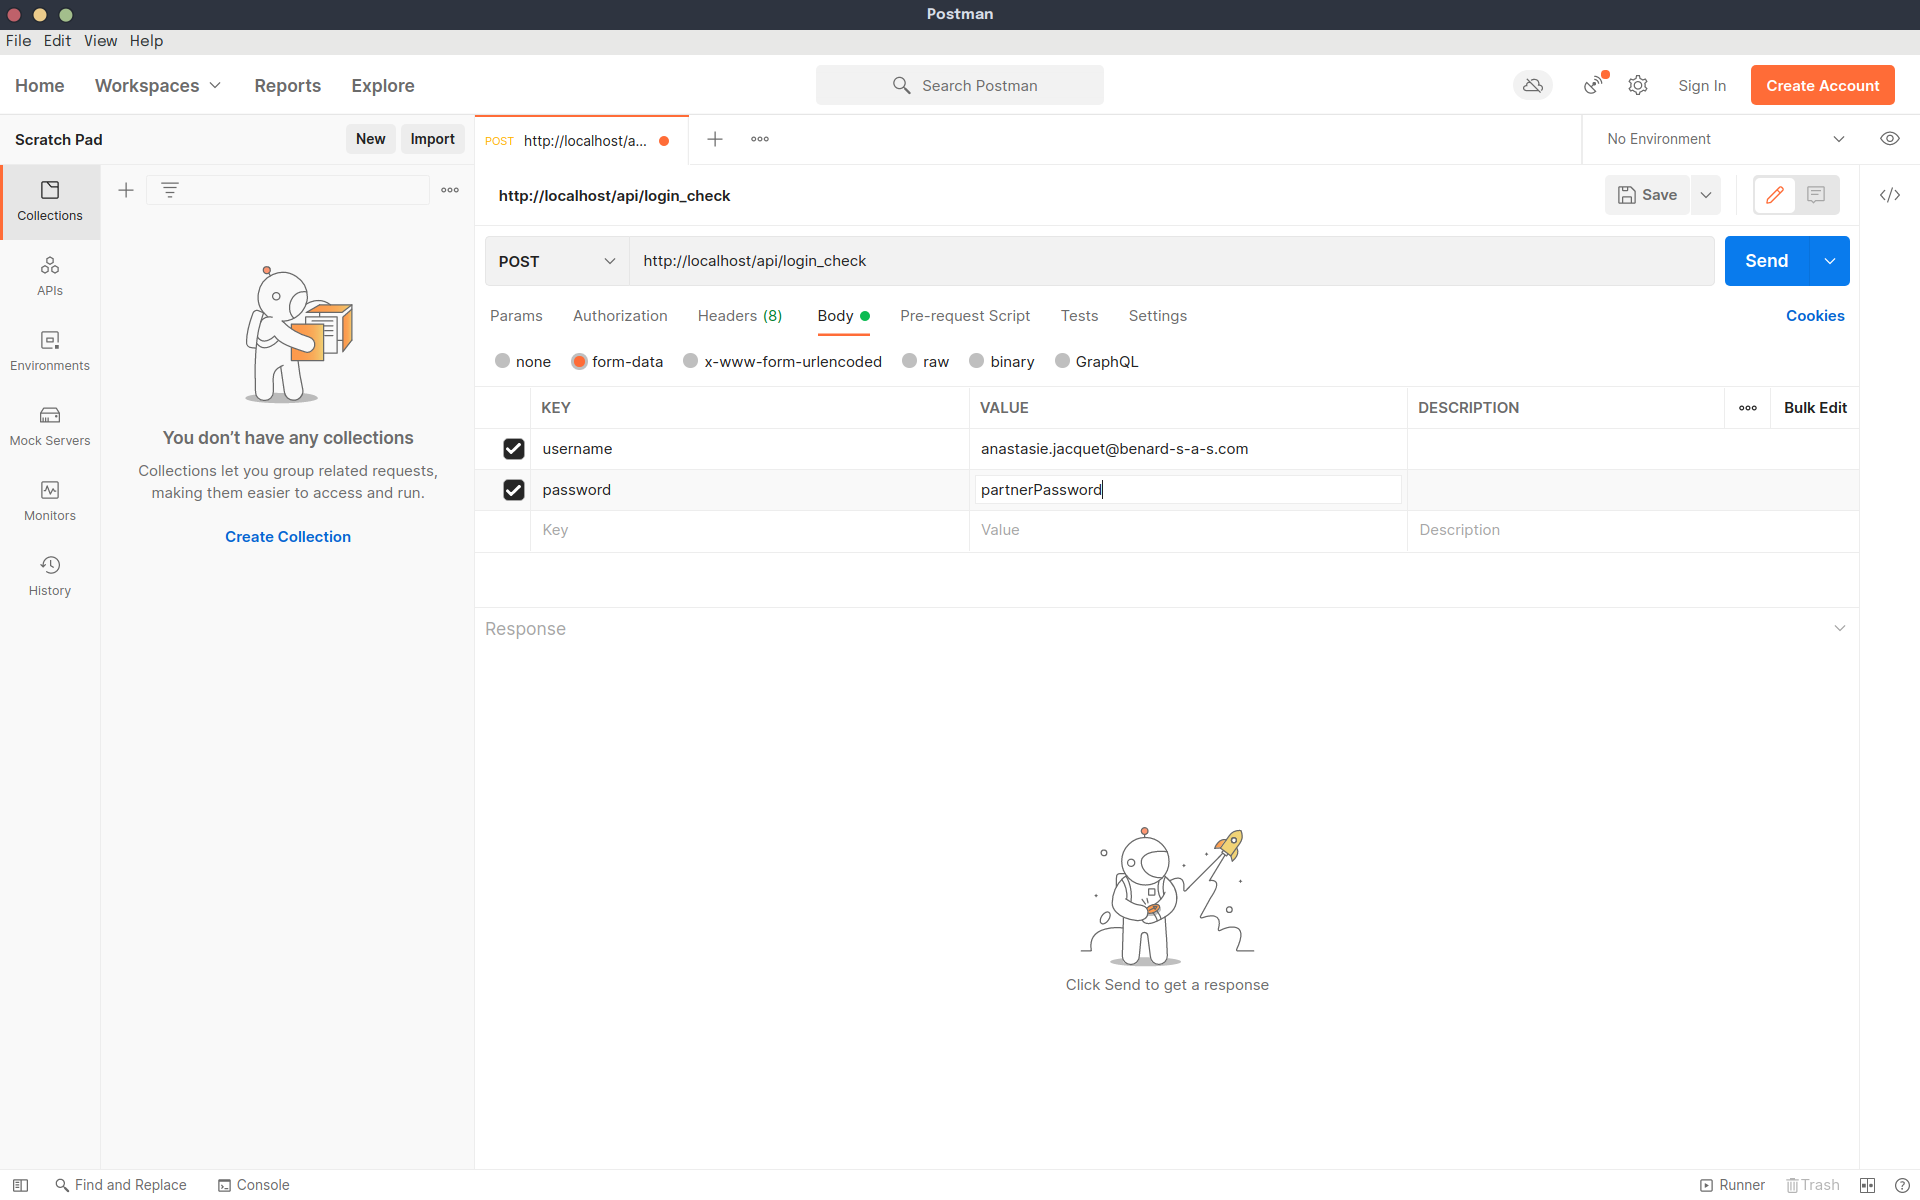
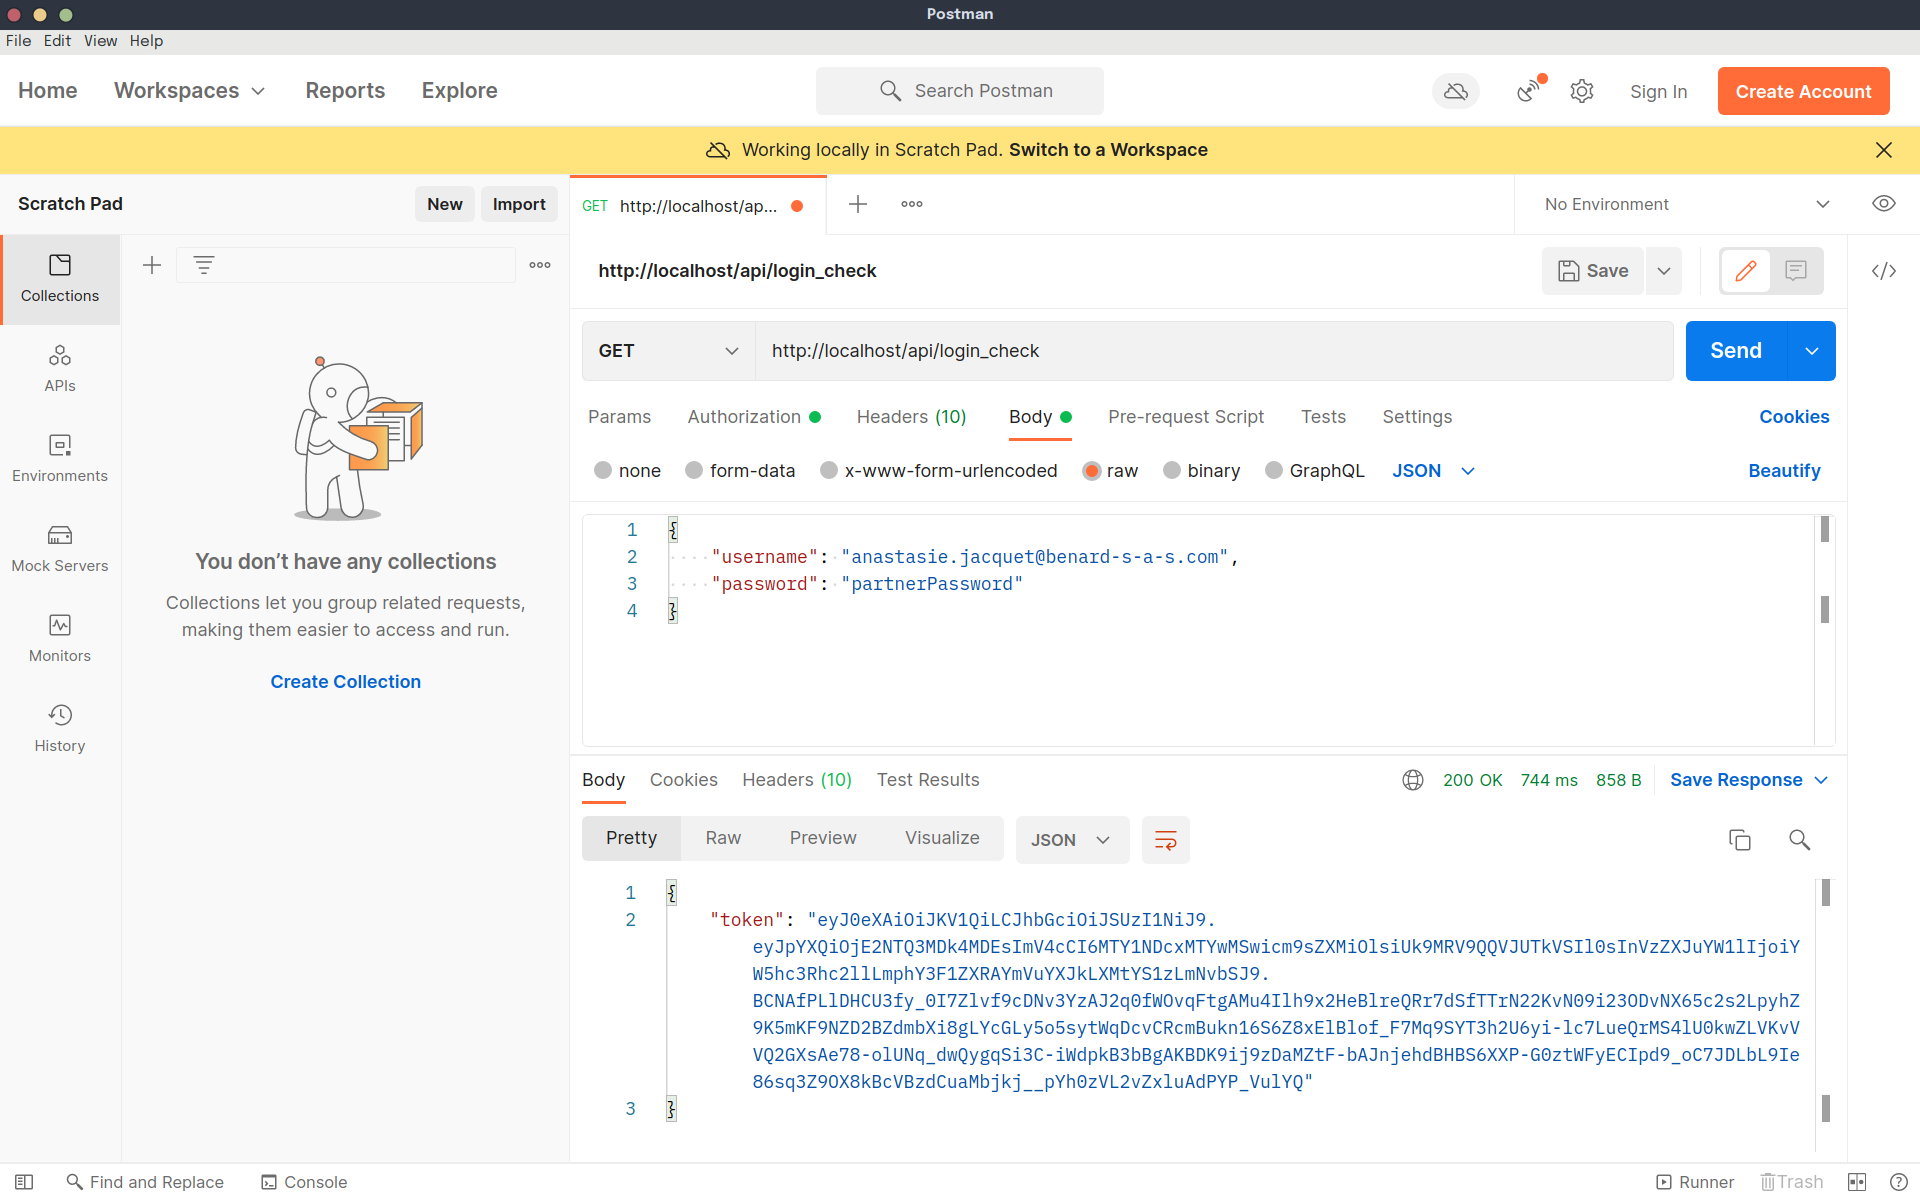
documentation: update for token

diff --git a/doc/api.md b/doc/api.md
@@ -26,10 +26,11 @@ Lorsque vous vous voudrez utiliser le token pour faire vos requêtes, avec Postm
 0. Interface de Postman sans intervention utilisateur
 ![Premier démarrage de Postman](screenshots/postman_00-initialState.png)
 
-1.Entrez vos informations de mot de passe dans le chemin `/login_check` dans le corps en raw JSON
+1. Utilisez le chemin `/login_check` avec la méthode `POST` et entrez plus bas vos informations dans le corps en raw JSON selon cette syntaxe. Vous obtiendrez le token
 ![Entrer son mot de passe et nom d'utilisateur pour obtenir le token](screenshots/postman_01-enterCredentials.png)
-![Obtenir le token en réponse](screenshots/postman_02-getResponseToken.png)
-![Utilisation du token dans une requête vers l'API](screenshots/postman_03-useTokenMakeRequest.png)
+
+1. Accédez à l'onglet "Authorization" avec le type "Bearer token", et collez votre token reçu à l'étape précédence dans le champ adéquat. Grâce à cela, vous pourrez effectuer vos requêtes pendant 30 minutes avec ce token.
+![Utilisation du token dans une requête vers l'API](screenshots/postman_02-useTokenMakeRequest.png)
 
 ---
 ## Produits
